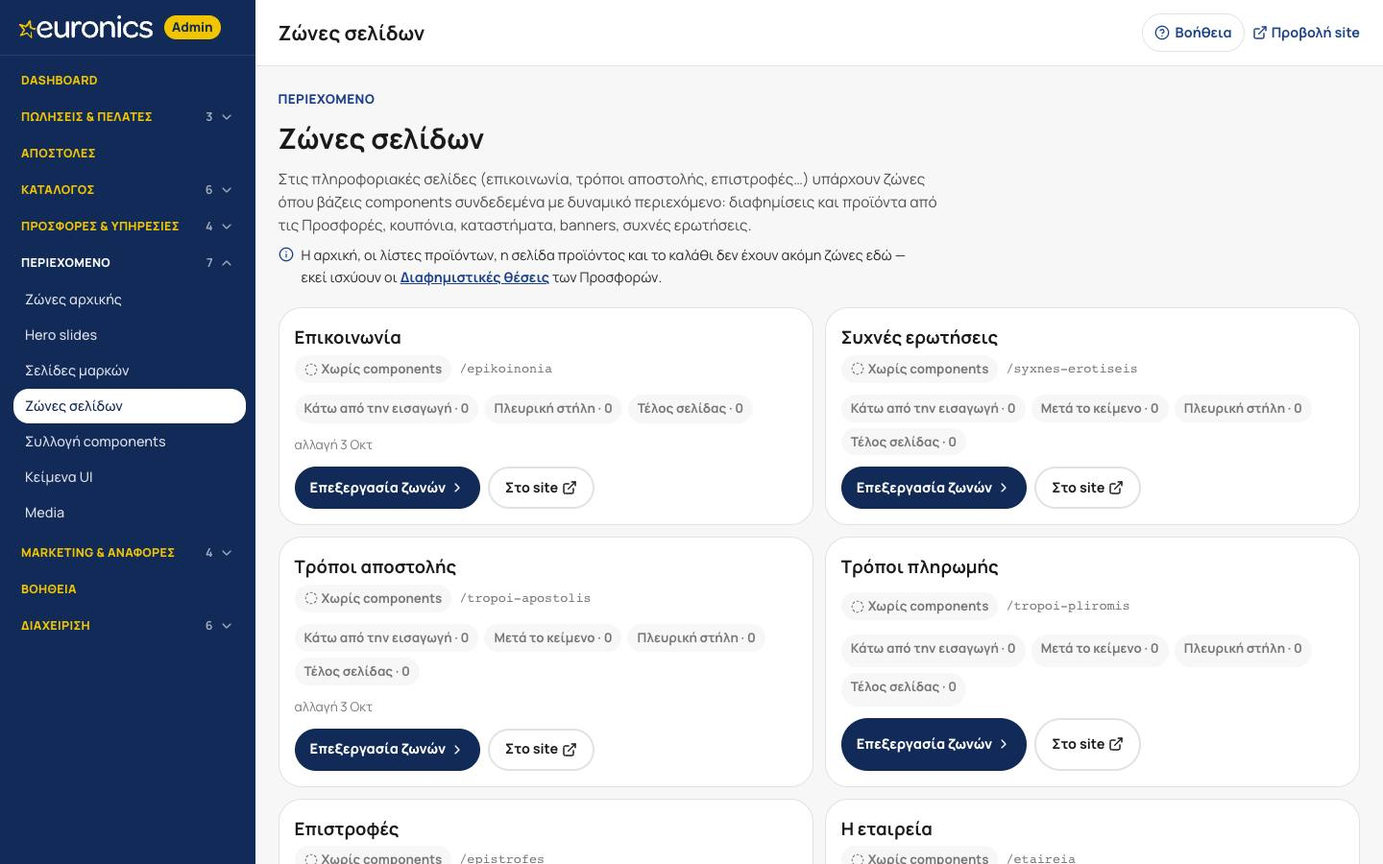
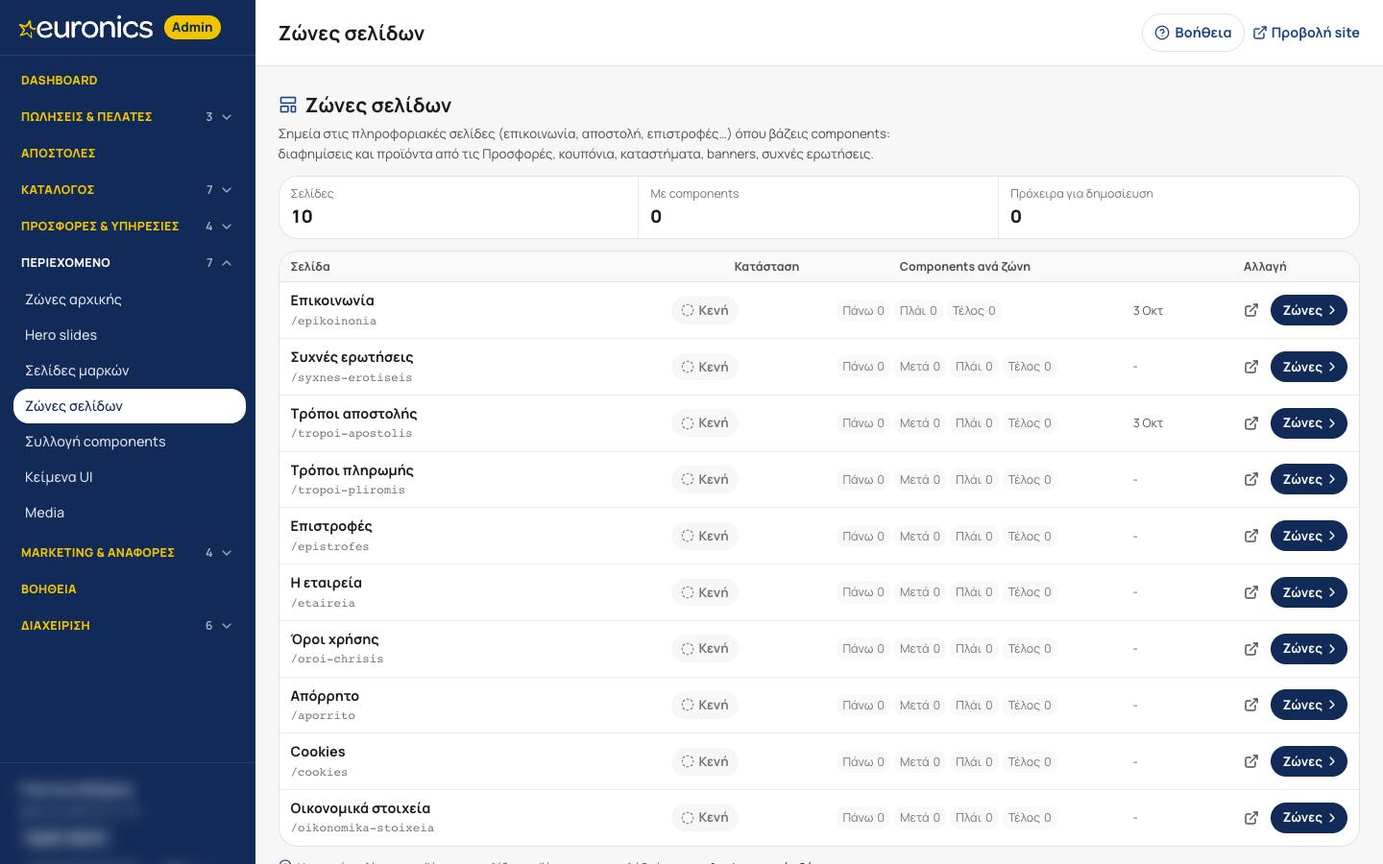
Ζώνες σελίδων (ui-ux-pro-max): η λίστα από 10 μεγάλες κάρτες γίνεται πυκνός πίνακας (σελίδα, κατάσταση, components ανά ζώνη με τόνο μόνο όπου υπάρχει περιεχόμενο, αλλαγή, Στο site / Ζώνες) με λωρίδα συνόλων· στον editor επεξεργασία και προεπισκόπηση δίπλα-δίπλα από 896 px (πριν 1280) με προεπισκόπησ

diff --git a/components/admin/cms/ZonePageEditor.tsx b/components/admin/cms/ZonePageEditor.tsx
@@ -98,48 +98,51 @@ export function ZonePageEditor({ page, initial, published: pub, savedAt: initSav
 
   return (
     <PickerBrand.Provider value={{ brandId: null, brandName: "Euronics" }}>
-      <div className="grid gap-4 min-w-0">
-        <div className="sticky top-0 z-30 -mx-4 @md:-mx-6 -mt-4 @md:-mt-6 px-4 @md:px-6 py-3 bg-eu-surface/95 backdrop-blur border-b border-eu-line grid gap-2">
-          <div className="flex flex-wrap items-center gap-x-3 gap-y-2">
-            <Link href="/admin/cms/pages" className="inline-flex items-center gap-1 text-eu-blue font-bold text-[length:var(--fs-14)] min-h-11 hover:underline"><ChevronLeft className="size-4" aria-hidden /> Ζώνες σελίδων</Link>
-            <h2 className="m-0 font-heading font-bold text-eu-ink text-[length:var(--fs-22)] min-w-0">{page.title}</h2>
+      <div className="@container grid gap-3 min-w-0">
+        {/* λεπτή σταθερή κεφαλίδα: πού είσαι, κατάσταση, έλεγχος, δημοσίευση */}
+        <div className="sticky top-0 z-30 -mx-4 @md:-mx-6 -mt-4 @md:-mt-6 px-4 @md:px-6 py-2 bg-eu-surface/95 backdrop-blur border-b border-eu-line grid gap-2">
+          <div className="flex flex-wrap items-center gap-x-3 gap-y-1.5">
+            <Link href="/admin/cms/pages" aria-label="Πίσω στις ζώνες σελίδων" className="inline-flex items-center gap-0.5 text-eu-blue font-bold text-[length:var(--fs-13)] min-h-11 md:min-h-8 hover:underline"><ChevronLeft className="size-4" aria-hidden /> Σελίδες</Link>
+            <h2 className="m-0 font-heading font-bold text-eu-ink text-[length:var(--fs-20)] min-w-0">{page.title}</h2>
             <StatusPill status={status[0]} text={status[1]} />
-            <span role="status" className={`inline-flex items-center gap-1.5 text-[length:var(--fs-13)] font-semibold ${save === "error" ? "text-eu-red" : "text-eu-muted"}`}>{save === "saving" ? <Loader2 className="size-3.5 animate-spin" aria-hidden /> : save === "idle" ? <Check className="size-3.5" aria-hidden /> : null}{saveText}</span>
-          </div>
-          <div className="flex flex-wrap items-center gap-2">
-            <button type="button" onClick={publish} disabled={busy || !changed} className="inline-flex items-center justify-center gap-2 rounded-full bg-eu-navy text-white font-extrabold text-[length:var(--fs-15)] px-4 @md:px-5 min-h-12 hover:bg-eu-blue disabled:opacity-50 flex-1 @md:flex-none min-w-0">{busy ? <Loader2 className="size-4 animate-spin" aria-hidden /> : <Rocket className="size-4" aria-hidden />}{changed ? (published ? "Δημοσίευση αλλαγών" : "Δημοσίευση") : "Χωρίς αλλαγές για δημοσίευση"}</button>
-            <button type="button" onClick={() => setShowIssues((x) => !x)} aria-expanded={showIssues} title="Έλεγχος πριν τη δημοσίευση" className={`shrink-0 inline-flex items-center gap-1.5 rounded-full border-2 px-4 min-h-12 font-bold text-[length:var(--fs-14)] ${errors.length ? "border-eu-red text-eu-red" : warnings.length ? "border-eu-amber text-eu-amber" : "border-eu-green text-eu-green"}`}>{errors.length ? <CircleAlert className="size-4" aria-hidden /> : warnings.length ? <TriangleAlert className="size-4" aria-hidden /> : <Check className="size-4" aria-hidden />}{errors.length ? <>{errors.length}<span className="hidden @md:inline"> για διόρθωση</span></> : warnings.length ? <>{warnings.length}<span className="hidden @md:inline"> συστάσεις</span></> : "Έτοιμη"}</button>
+            <span role="status" className={`inline-flex items-center gap-1.5 text-[length:var(--fs-12)] font-semibold ${save === "error" ? "text-eu-red" : "text-eu-muted"}`}>{save === "saving" ? <Loader2 className="size-3.5 animate-spin" aria-hidden /> : save === "idle" ? <Check className="size-3.5" aria-hidden /> : null}{saveText}</span>
+            <div className="ml-auto flex flex-wrap items-center gap-1.5">
+              <a href={`${page.path}?preview=1`} target="_blank" rel="noopener noreferrer" className="inline-flex items-center gap-1 rounded-full px-2.5 min-h-11 md:min-h-9 font-bold text-eu-ink-3 text-[length:var(--fs-13)] hover:bg-white" title="Το πρόχειρο σε νέα καρτέλα">Προεπισκόπηση <ExternalLink className="size-3.5" aria-hidden /></a>
+              {published && <a href={page.path} target="_blank" rel="noopener noreferrer" className="inline-flex items-center gap-1 rounded-full px-2.5 min-h-11 md:min-h-9 font-bold text-eu-ink-3 text-[length:var(--fs-13)] hover:bg-white">Στο site <ExternalLink className="size-3.5" aria-hidden /></a>}
+              {published && changed && <button type="button" onClick={revert} disabled={busy} className="inline-flex items-center gap-1 rounded-full border border-eu-line bg-white px-3 min-h-11 md:min-h-9 font-bold text-[length:var(--fs-13)] hover:border-eu-navy"><Undo2 className="size-4" aria-hidden /> Ακύρωση</button>}
+              <button type="button" onClick={() => setShowIssues((x) => !x)} aria-expanded={showIssues} title="Έλεγχος πριν τη δημοσίευση" className={`inline-flex items-center gap-1 rounded-full border px-3 min-h-11 md:min-h-9 font-bold text-[length:var(--fs-13)] bg-white ${errors.length ? "border-eu-red text-eu-red" : warnings.length ? "border-eu-amber text-eu-ink-2" : "border-eu-green/50 text-eu-green"}`}>{errors.length ? <CircleAlert className="size-4" aria-hidden /> : warnings.length ? <TriangleAlert className="size-4 text-eu-amber" aria-hidden /> : <Check className="size-4" aria-hidden />}{errors.length ? `${errors.length} για διόρθωση` : warnings.length ? `${warnings.length} συστάσεις` : "Έτοιμη"}</button>
+              <button data-help="zones.publish" type="button" onClick={publish} disabled={busy || !changed} className="inline-flex items-center gap-1.5 rounded-full bg-eu-navy text-white font-bold text-[length:var(--fs-13)] px-4 min-h-11 md:min-h-9 hover:bg-eu-blue disabled:opacity-45">{busy ? <Loader2 className="size-4 animate-spin" aria-hidden /> : <Rocket className="size-4" aria-hidden />}{changed ? "Δημοσίευση" : "Χωρίς αλλαγές"}</button>
+            </div>
           </div>
           {result && <div className="relative"><ResultBanner ok={result.ok}><span className="block pr-8">{result.message}</span></ResultBanner><button type="button" onClick={() => setResult(null)} aria-label="Κλείσιμο" className="absolute top-1 right-1 size-10 grid place-items-center rounded-full text-eu-muted hover:bg-white/60"><X className="size-4" aria-hidden /></button></div>}
           {showIssues && (errors.length > 0 || warnings.length > 0) && (
             <ul className="m-0 p-0 list-none grid gap-1 max-h-[40vh] overflow-y-auto rounded-xl bg-white border border-eu-line p-2">
               {[...errors.map((e) => ({ ...e, err: true })), ...warnings.map((w) => ({ ...w, err: false }))].map((x, k) => (
-                <li key={k}><button type="button" onClick={() => go(x.anchor)} className="w-full text-left flex items-start gap-2 rounded-lg px-2 py-1.5 min-h-11 hover:bg-eu-surface">{x.err ? <CircleAlert className="size-4 mt-0.5 shrink-0 text-eu-red" aria-hidden /> : <TriangleAlert className="size-4 mt-0.5 shrink-0 text-eu-amber" aria-hidden />}<span className="text-[length:var(--fs-14)]"><b>{x.where}:</b> {x.msg}</span></button></li>
+                <li key={k}><button type="button" onClick={() => go(x.anchor)} className="w-full text-left flex items-start gap-2 rounded-lg px-2 py-1.5 min-h-11 hover:bg-eu-surface">{x.err ? <CircleAlert className="size-4 mt-0.5 shrink-0 text-eu-red" aria-hidden /> : <TriangleAlert className="size-4 mt-0.5 shrink-0 text-eu-amber" aria-hidden />}<span className="text-[length:var(--fs-13)]"><b>{x.where}:</b> {x.msg}</span></button></li>
               ))}
             </ul>
           )}
-          <div className="@7xl:hidden grid grid-cols-2 gap-1 rounded-full bg-white border border-eu-line p-1" role="tablist" aria-label="Προβολή">
-            {(["edit", "preview"] as const).map((v) => <button key={v} type="button" role="tab" aria-selected={view === v} onClick={() => setView(v)} className={`rounded-full min-h-10 font-bold text-[length:var(--fs-14)] ${view === v ? "bg-eu-navy text-white" : "text-eu-ink-2"}`}>{v === "edit" ? "Επεξεργασία" : "Προεπισκόπηση"}</button>)}
+          <div className="@4xl:hidden grid grid-cols-2 gap-1 rounded-full bg-white border border-eu-line p-0.5" role="tablist" aria-label="Προβολή">
+            {(["edit", "preview"] as const).map((v) => <button key={v} type="button" role="tab" aria-selected={view === v} onClick={() => setView(v)} className={`rounded-full min-h-11 font-bold text-[length:var(--fs-13)] ${view === v ? "bg-eu-navy text-white" : "text-eu-ink-2"}`}>{v === "edit" ? "Επεξεργασία" : "Προεπισκόπηση"}</button>)}
           </div>
         </div>
 
-        <div className="flex flex-wrap items-center gap-2">
-          <a href={`${page.path}?preview=1`} target="_blank" rel="noopener noreferrer" className="inline-flex items-center gap-1.5 rounded-full border-2 border-eu-line px-4 min-h-11 font-bold text-[length:var(--fs-14)] hover:border-eu-navy">Προεπισκόπηση <ExternalLink className="size-4" aria-hidden /></a>
-          {published && <a href={page.path} target="_blank" rel="noopener noreferrer" className="inline-flex items-center gap-1.5 rounded-full border-2 border-eu-line px-4 min-h-11 font-bold text-[length:var(--fs-14)] hover:border-eu-navy">Στο site <ExternalLink className="size-4" aria-hidden /></a>}
-          {published && changed && <button type="button" onClick={revert} disabled={busy} className="inline-flex items-center gap-1.5 rounded-full border-2 border-eu-line px-4 min-h-11 font-bold text-[length:var(--fs-14)] hover:border-eu-navy"><Undo2 className="size-4" aria-hidden /> Ακύρωση αλλαγών</button>}
-        </div>
-
-        <div className="grid grid-cols-1 @7xl:grid-cols-[minmax(0,1fr)_minmax(0,1fr)] gap-5 items-start">
-          <div className={view === "edit" ? "min-w-0 grid gap-4" : "hidden @7xl:grid min-w-0 gap-4"}>
-            <section className="rounded-2xl bg-white border border-eu-line p-4 @md:p-5 grid @3xl:grid-cols-[minmax(0,1fr)_minmax(0,18rem)] gap-4 items-start">
-              <div className="grid gap-2">
-                <h3 className="m-0 font-heading font-bold text-eu-ink text-[length:var(--fs-20)]">Τι κάνω εδώ;</h3>
-                <p className="m-0 text-eu-ink-3 text-[length:var(--fs-15)] leading-relaxed">Η σελίδα «{page.title}» έχει {page.zones.length} <b>ζώνες</b> — σημεία όπου μπορείς να βάλεις components: διαφημίσεις από τις Προσφορές, προϊόντα προσφοράς, κουπόνι, banner, καταστήματα, συχνές ερωτήσεις κ.ά. Το κείμενο της σελίδας δεν αλλάζει.</p>
-                <p className="m-0 inline-flex items-start gap-2 text-eu-ink-2 text-[length:var(--fs-14)]"><Info className="size-4 mt-0.5 shrink-0 text-eu-blue" aria-hidden /><span>Όσα συνδέονται με προσφορές <b>κρύβονται μόνα τους</b> όταν η προσφορά λήξει. Κάθε αλλαγή μένει πρόχειρο μέχρι να πατήσεις «Δημοσίευση».</span></p>
+        {/* επεξεργασία αριστερά, προεπισκόπηση δεξιά — πάντα μαζί από 896 px (ui-ux-pro-max: άμεση οπτική ανάδραση) */}
+        <div className="grid grid-cols-1 @4xl:grid-cols-[minmax(20rem,26rem)_minmax(0,1fr)] gap-3 items-start">
+          <div className={view === "edit" ? "min-w-0 grid gap-3" : "hidden @4xl:grid min-w-0 gap-3"}>
+            <nav data-help="zones.nav" aria-label="Ζώνες της σελίδας" className="rounded-xl bg-white border border-eu-line p-2.5 grid gap-2">
+              <div className="flex flex-wrap gap-1">
+                {page.zones.map((z) => <button key={z} type="button" onClick={() => document.getElementById(`zone-${z}`)?.scrollIntoView({ behavior: "smooth", block: "start" })} className={`inline-flex items-center gap-1 rounded-full px-2.5 min-h-11 md:min-h-8 font-bold text-[length:var(--fs-12)] ${counts[z] ? "bg-eu-chip text-eu-navy" : "bg-eu-surface text-eu-ink-3"} hover:ring-2 hover:ring-eu-blue/30`}>{INFO_ZONES[z].label}<span className="tabular-nums opacity-70">{counts[z]}</span></button>)}
               </div>
-              <ZoneMap page={page} counts={counts} onPick={(z) => { setAdding(z); setTimeout(() => document.getElementById(`zone-${z}`)?.scrollIntoView({ behavior: "smooth", block: "start" }), 50); }} />
-            </section>
-            <section className="rounded-2xl bg-white border border-eu-line p-4 @md:p-5 grid gap-4 min-w-0" aria-label="Ζώνες">
+              <details className="group">
+                <summary className="list-none cursor-pointer inline-flex items-center gap-1.5 min-h-11 md:min-h-7 text-eu-blue font-semibold text-[length:var(--fs-12)] [&::-webkit-details-marker]:hidden"><Info className="size-3.5" aria-hidden /> Τι είναι οι ζώνες; Πού φαίνεται κάθε μία</summary>
+                <div className="grid gap-2 pt-1">
+                  <p className="m-0 text-eu-ink-3 text-[length:var(--fs-12)] leading-relaxed">Σημεία της σελίδας «{page.title}» όπου βάζεις components: διαφημίσεις και προϊόντα από τις Προσφορές, κουπόνι, banner, καταστήματα, συχνές ερωτήσεις. Το κείμενο της σελίδας δεν αλλάζει. Όσα συνδέονται με προσφορά κρύβονται μόνα τους όταν λήξει. Όλα μένουν πρόχειρο μέχρι τη «Δημοσίευση».</p>
+                  <ZoneMap page={page} counts={counts} onPick={(z) => { setAdding(z); setTimeout(() => document.getElementById(`zone-${z}`)?.scrollIntoView({ behavior: "smooth", block: "start" }), 50); }} />
+                </div>
+              </details>
+            </nav>
+            <section data-help="zones.blocks" className="rounded-xl bg-white border border-eu-line p-3 grid gap-3 min-w-0" aria-label="Ζώνες">
               <ZoneBlocks
                 blocks={blocks}
                 setBlocks={(fn) => setBlocksState((x) => fn(x))}
@@ -156,7 +159,7 @@ export function ZonePageEditor({ page, initial, published: pub, savedAt: initSav
               />
             </section>
           </div>
-          <div className={view === "preview" ? "min-w-0" : "hidden @7xl:block min-w-0"}><Preview src={`${page.path}?preview=1`} v={pv} device={device} setDevice={setDevice} saving={save !== "idle"} /></div>
+          <div data-help="zones.preview" className={view === "preview" ? "min-w-0" : "hidden @4xl:block min-w-0 @4xl:sticky @4xl:top-16"}><Preview src={`${page.path}?preview=1`} v={pv} device={device} setDevice={setDevice} saving={save !== "idle"} /></div>
         </div>
       </div>
     </PickerBrand.Provider>

diff --git a/app/admin/(shell)/cms/pages/page.tsx b/app/admin/(shell)/cms/pages/page.tsx
@@ -1,7 +1,7 @@
 import Link from "next/link";
-import { ChevronRight, ExternalLink, Info } from "lucide-react";
+import { ChevronRight, ExternalLink, Info, LayoutTemplate } from "lucide-react";
 import { requirePermission } from "@/lib/rbac/guard";
-import { INFO_PAGES, INFO_ZONES } from "@/lib/cms/info-pages";
+import { INFO_PAGES, INFO_ZONES, type InfoZone } from "@/lib/cms/info-pages";
 import { listZonesDocs } from "@/lib/cms/page-zones";
 import { StatusPill } from "@/components/admin/settings/ui";
 
@@ -9,43 +9,68 @@ export const metadata = { title: "Ζώνες σελίδων" };
 export const dynamic = "force-dynamic";
 
 const stable = (v: unknown): string => (Array.isArray(v) ? `[${v.map(stable).join(",")}]` : v && typeof v === "object" ? `{${Object.keys(v as object).sort().map((k) => `${JSON.stringify(k)}:${stable((v as Record<string, unknown>)[k])}`).join(",")}}` : JSON.stringify(v));
+const ZONES: InfoZone[] = ["top", "after", "aside", "bottom"];
+const SHORT: Record<InfoZone, string> = { top: "Πάνω", after: "Μετά", aside: "Πλάι", bottom: "Τέλος" };
 
+/**
+ * Οι πληροφοριακές σελίδες με ζώνες (ui-ux-pro-max: πυκνός πίνακας αντί για κάρτες): κατάσταση, components ανά ζώνη
+ * (μόνο όσα έχουν περιεχόμενο τονίζονται), τελευταία αλλαγή / δημοσίευση και άνοιγμα του editor.
+ */
 export default async function ZonePagesList() {
   await requirePermission("cms.pages.write");
   const docs = new Map((await listZonesDocs()).map((d) => [d.key, d]));
   const date = (d: Date | null | undefined) => d?.toLocaleDateString("el-GR", { day: "numeric", month: "short" }) ?? null;
+  const rows = INFO_PAGES.map((p) => {
+    const d = docs.get(p.key);
+    const live = d?.published ?? [];
+    const draft = d?.draft ?? [];
+    const changed = !!d && (d.published ? stable(d.published) !== stable(d.draft) : draft.length > 0);
+    const status = !d?.published ? (draft.length ? (["off", "Πρόχειρο"] as const) : (["off", "Κενή"] as const)) : changed ? (["incomplete", "Αλλαγές στο πρόχειρο"] as const) : (["live", "Δημοσιευμένη"] as const);
+    const per = Object.fromEntries(ZONES.map((z) => [z, (changed ? draft : live).filter((b) => (b.zone ?? "top") === z).length])) as Record<InfoZone, number>;
+    return { p, d, status, changed, per, total: (changed ? draft : live).length };
+  });
+  const withContent = rows.filter((r) => r.total > 0).length, pending = rows.filter((r) => r.changed).length;
+
   return (
-    <div className="grid gap-5 min-w-0">
-      <header className="grid gap-2">
-        <div className="font-extrabold text-eu-blue text-[length:var(--fs-13)] tracking-wide uppercase">Περιεχόμενο</div>
-        <h2 className="m-0 font-heading font-bold text-eu-ink text-[length:var(--fs-28)]">Ζώνες σελίδων</h2>
-        <p className="m-0 text-eu-ink-3 text-[length:var(--fs-15)] max-w-[75ch]">Στις πληροφοριακές σελίδες (επικοινωνία, τρόποι αποστολής, επιστροφές…) υπάρχουν ζώνες όπου βάζεις components συνδεδεμένα με δυναμικό περιεχόμενο: διαφημίσεις και προϊόντα από τις Προσφορές, κουπόνια, καταστήματα, banners, συχνές ερωτήσεις.</p>
-        <p className="m-0 inline-flex items-start gap-2 text-eu-ink-2 text-[length:var(--fs-14)] max-w-[75ch]"><Info className="size-4 mt-0.5 shrink-0 text-eu-blue" aria-hidden /><span>Η αρχική, οι λίστες προϊόντων, η σελίδα προϊόντος και το καλάθι δεν έχουν ακόμη ζώνες εδώ — εκεί ισχύουν οι <Link href="/admin/prosfores/theseis" className="text-eu-blue font-bold underline">Διαφημιστικές θέσεις</Link> των Προσφορών.</span></p>
+    <div className="@container grid gap-3 min-w-0">
+      <header className="grid gap-1">
+        <h2 className="m-0 font-heading font-bold text-eu-ink text-[length:var(--fs-20)] inline-flex items-center gap-2"><LayoutTemplate className="size-5 text-eu-blue" aria-hidden /> Ζώνες σελίδων</h2>
+        <p className="m-0 text-eu-ink-3 text-[length:var(--fs-13)] max-w-[80ch]">Σημεία στις πληροφοριακές σελίδες (επικοινωνία, αποστολή, επιστροφές…) όπου βάζεις components: διαφημίσεις και προϊόντα από τις Προσφορές, κουπόνια, καταστήματα, banners, συχνές ερωτήσεις.</p>
       </header>
-      <ul className="m-0 p-0 list-none grid grid-cols-1 @2xl:grid-cols-2 @6xl:grid-cols-3 gap-3">
-        {INFO_PAGES.map((p) => {
-          const d = docs.get(p.key);
-          const live = d?.published ?? [];
-          const changed = !!d && (d.published ? stable(d.published) !== stable(d.draft) : d.draft.length > 0);
-          const [s, t] = !d?.published ? (d?.draft.length ? (["off", "Πρόχειρο — δεν φαίνεται"] as const) : (["off", "Χωρίς components"] as const)) : changed ? (["incomplete", "Δημοσιευμένη · αλλαγές στο πρόχειρο"] as const) : (["live", "Δημοσιευμένη"] as const);
-          return (
-            <li key={p.key} className="rounded-2xl bg-white border border-eu-line p-4 grid gap-3 min-w-0">
-              <div className="grid gap-1">
-                <div className="font-heading font-bold text-eu-ink text-[length:var(--fs-18)]">{p.title}</div>
-                <div className="flex flex-wrap items-center gap-2"><StatusPill status={s} text={t} /><span className="font-mono text-eu-muted text-[length:var(--fs-13)]">{p.path}</span></div>
-              </div>
-              <ul className="m-0 p-0 list-none flex flex-wrap gap-1.5">
-                {p.zones.map((z) => { const n = live.filter((b) => (b.zone ?? "top") === z).length; return <li key={z} className={`rounded-full px-2.5 py-1 text-[length:var(--fs-13)] font-bold ${n ? "bg-eu-chip text-eu-navy" : "bg-eu-surface text-eu-muted"}`}>{INFO_ZONES[z].label} · {n}</li>; })}
-              </ul>
-              {d?.updatedAt && <div className="text-eu-muted text-[length:var(--fs-13)]">αλλαγή {date(d.updatedAt)}{d.publishedAt ? ` · δημοσίευση ${date(d.publishedAt)}` : ""}</div>}
-              <div className="flex flex-wrap gap-2">
-                <Link href={`/admin/cms/pages/${p.key}`} className="inline-flex items-center justify-center gap-1 rounded-full bg-eu-navy text-white font-extrabold text-[length:var(--fs-14)] px-4 min-h-11 hover:bg-eu-blue grow @md:grow-0">Επεξεργασία ζωνών <ChevronRight className="size-4" aria-hidden /></Link>
-                <a href={p.path} target="_blank" rel="noopener noreferrer" className="inline-flex items-center justify-center gap-1 rounded-full border-2 border-eu-line font-bold text-[length:var(--fs-14)] px-4 min-h-11 hover:border-eu-navy grow @md:grow-0">Στο site <ExternalLink className="size-4" aria-hidden /></a>
-              </div>
+
+      <dl className="m-0 grid grid-cols-3 rounded-xl border border-eu-line bg-white overflow-hidden [&>div]:px-3 [&>div]:py-2 [&>div:not(:last-child)]:border-r [&>div]:border-eu-line-2">
+        <div><dt className="text-eu-muted text-[length:var(--fs-12)]">Σελίδες</dt><dd className="m-0 font-heading font-extrabold text-eu-ink text-[length:var(--fs-18)] tabular-nums">{rows.length}</dd></div>
+        <div><dt className="text-eu-muted text-[length:var(--fs-12)]">Με components</dt><dd className="m-0 font-heading font-extrabold text-eu-ink text-[length:var(--fs-18)] tabular-nums">{withContent}</dd></div>
+        <div><dt className="text-eu-muted text-[length:var(--fs-12)]">Πρόχειρα για δημοσίευση</dt><dd className={`m-0 font-heading font-extrabold text-[length:var(--fs-18)] tabular-nums ${pending ? "text-eu-amber" : "text-eu-ink"}`}>{pending}</dd></div>
+      </dl>
+
+      <div data-help="zones.list" className="rounded-xl border border-eu-line bg-white overflow-hidden">
+        <div className="hidden @3xl:grid grid-cols-[minmax(0,1.3fr)_10rem_minmax(0,1fr)_6rem_auto] gap-x-3 px-3 py-1.5 bg-eu-surface/70 border-b border-eu-line text-eu-ink-3 font-bold text-[length:var(--fs-12)]">
+          <span>Σελίδα</span><span>Κατάσταση</span><span title="Components ανά ζώνη: πάνω (κάτω από την εισαγωγή), μετά το κείμενο, πλαϊνή στήλη, τέλος σελίδας">Components ανά ζώνη</span><span>Αλλαγή</span><span className="sr-only">Ενέργειες</span>
+        </div>
+        <ul className="m-0 p-0 list-none divide-y divide-eu-line-2">
+          {rows.map(({ p, d, status, per, total }) => (
+            <li key={p.key} className="grid grid-cols-[minmax(0,1fr)_auto] @3xl:grid-cols-[minmax(0,1.3fr)_10rem_minmax(0,1fr)_6rem_auto] items-center gap-x-3 gap-y-1.5 px-3 py-2">
+              <span className="grid min-w-0">
+                <Link href={`/admin/cms/pages/${p.key}`} className="font-bold text-eu-ink text-[length:var(--fs-14)] hover:text-eu-blue hover:underline truncate">{p.title}</Link>
+                <span className="font-mono text-eu-muted text-[length:var(--fs-12)] truncate">{p.path}</span>
+              </span>
+              <span className="row-start-2 @3xl:row-start-auto"><StatusPill status={status[0]} text={status[1]} /></span>
+              <span className="row-start-3 col-span-2 @3xl:row-start-auto @3xl:col-span-1 flex flex-wrap gap-1" aria-label={total ? `${total} components` : "Χωρίς components"}>
+                {ZONES.filter((z) => p.zones.includes(z)).map((z) => (
+                  <span key={z} title={INFO_ZONES[z].label} className={`inline-flex items-center gap-1 rounded-md px-1.5 py-0.5 text-[length:var(--fs-12)] ${per[z] ? "bg-eu-chip text-eu-navy font-bold" : "bg-eu-surface/70 text-eu-muted"}`}>{SHORT[z]}<span className="tabular-nums">{per[z]}</span></span>
+                ))}
+              </span>
+              <span className="hidden @3xl:block text-eu-ink-3 text-[length:var(--fs-12)] tabular-nums" title={d?.publishedAt ? `δημοσίευση ${date(d.publishedAt)}` : undefined}>{date(d?.updatedAt) ?? "-"}</span>
+              <span className="row-start-1 col-start-2 @3xl:row-start-auto @3xl:col-start-auto flex items-center gap-1 justify-end">
+                <a href={p.path} target="_blank" rel="noopener noreferrer" aria-label={`${p.title} στο site`} title="Στο site" className="size-11 md:size-8 grid place-items-center rounded-full text-eu-ink-3 hover:bg-eu-surface hover:text-eu-navy"><ExternalLink className="size-4" aria-hidden /></a>
+                <Link href={`/admin/cms/pages/${p.key}`} className="inline-flex items-center gap-0.5 rounded-full bg-eu-navy text-white font-bold text-[length:var(--fs-13)] pl-3 pr-2 min-h-11 md:min-h-8 hover:bg-eu-blue">Ζώνες <ChevronRight className="size-4" aria-hidden /></Link>
+              </span>
             </li>
-          );
-        })}
-      </ul>
+          ))}
+        </ul>
+      </div>
+      <p className="m-0 inline-flex items-start gap-1.5 text-eu-ink-3 text-[length:var(--fs-12)] max-w-[80ch]"><Info className="size-3.5 mt-px shrink-0 text-eu-blue" aria-hidden /><span>Η αρχική, οι λίστες προϊόντων, η σελίδα προϊόντος και το καλάθι έχουν τις <Link href="/admin/prosfores/theseis" className="text-eu-blue font-bold underline">Διαφημιστικές θέσεις</Link> των Προσφορών και τις <Link href="/admin/cms/home" className="text-eu-blue font-bold underline">Ζώνες αρχικής</Link>.</span></p>
     </div>
   );
 }

diff --git a/lib/help/content/index.ts b/lib/help/content/index.ts
@@ -232,6 +232,30 @@ export const HELP_PAGES: HelpPage[] = [
     keywords: ["προϊόντα", "φωτογραφίες", "ποιότητα", "στήλες", "πηγή"],
   },
   {
+    route: "/admin/cms/pages",
+    title: "Ζώνες σελίδων",
+    summary: "Οι πληροφοριακές σελίδες (επικοινωνία, αποστολή, επιστροφές, όροι…) με ζώνες όπου βάζεις components: διαφημίσεις και προϊόντα από τις Προσφορές, κουπόνια, καταστήματα, banners, συχνές ερωτήσεις. Ένας πίνακας με την κατάσταση κάθε σελίδας.",
+    parts: [{ key: "zones.list", title: "Σελίδες", text: "Ανά σελίδα: κατάσταση (Κενή, Πρόχειρο, Δημοσιευμένη, Αλλαγές στο πρόχειρο), components ανά ζώνη (Πάνω, Μετά το κείμενο, Πλάι, Τέλος· τονίζονται όσες έχουν περιεχόμενο), τελευταία αλλαγή, «Στο site» και «Ζώνες» για επεξεργασία. Πάνω: πόσες σελίδες έχουν components και πόσες έχουν πρόχειρο για δημοσίευση." }],
+    tasks: [{ title: "Βάζω προσφορά σε μια σελίδα", steps: ["Πάτα «Ζώνες» στη σελίδα (π.χ. Τρόποι αποστολής).", "Στη ζώνη που θέλεις πάτα «Προσθήκη εδώ» και διάλεξε component (π.χ. προϊόντα προσφοράς).", "Δες το αμέσως στην προεπισκόπηση δίπλα· «Δημοσίευση» όταν είναι έτοιμο."] }],
+    related: [{ label: "Διαφημιστικές θέσεις", href: "/admin/prosfores/theseis" }, { label: "Ζώνες αρχικής", href: "/admin/cms/home" }],
+    files: ["app/admin/(shell)/cms/pages/page.tsx", "lib/cms/info-pages.ts", "lib/cms/page-zones.ts"],
+    keywords: ["ζώνες", "σελίδες", "components", "πληροφοριακές", "επικοινωνία"],
+  },
+  {
+    route: "/admin/cms/pages/[key]",
+    title: "Ζώνες μιας σελίδας",
+    summary: "Τα components στις ζώνες μιας πληροφοριακής σελίδας, με ζωντανή προεπισκόπηση του πρόχειρου δίπλα (σε οθόνη laptop και μεγαλύτερη). Οι αλλαγές αποθηκεύονται μόνες τους και φαίνονται στους επισκέπτες μετά τη «Δημοσίευση».",
+    parts: [
+      { key: "zones.nav", title: "Ζώνες", text: "Οι ζώνες της σελίδας με το πλήθος των components τους· πάτα μία για να πας εκεί. «Τι είναι οι ζώνες;» ανοίγει εξήγηση και σχεδιάγραμμα με το πού φαίνεται κάθε ζώνη στη σελίδα." },
+      { key: "zones.blocks", title: "Components", text: "Ανά ζώνη τα components της, με «Προσθήκη εδώ». Όσα συνδέονται με προσφορά κρύβονται μόνα τους όταν λήξει." },
+      { key: "zones.preview", title: "Προεπισκόπηση", text: "Το πρόχειρο όπως θα το δει ο επισκέπτης, σε υπολογιστή ή κινητό· ανανεώνεται μετά από κάθε αλλαγή. Σε μικρή οθόνη είναι στην καρτέλα «Προεπισκόπηση»." },
+      { key: "zones.publish", title: "Έλεγχος & δημοσίευση", text: "«Έτοιμη» / «N συστάσεις» / «N για διόρθωση» ανοίγει τη λίστα θεμάτων με σύνδεσμο σε καθένα. «Δημοσίευση» κλειδώνει όσο υπάρχουν θέματα για διόρθωση· «Ακύρωση» γυρίζει στη δημοσιευμένη έκδοση." },
+    ],
+    related: [{ label: "Όλες οι σελίδες", href: "/admin/cms/pages" }],
+    files: ["components/admin/cms/ZonePageEditor.tsx", "components/admin/cms/ZoneBlocks.tsx", "components/admin/cms/BrandPreview.tsx"],
+    keywords: ["ζώνες", "components", "προεπισκόπηση", "δημοσίευση"],
+  },
+  {
     route: "/admin/cms/copy",
     title: "Κείμενα UI",
     summary: "Όλα τα σταθερά κείμενα της βιτρίνας (κουμπιά, ετικέτες, μηνύματα, τίτλοι ενοτήτων), σε ομάδες ανά σημείο του site. Αλλάζουν επί τόπου, αποθηκεύονται μόνα τους στο πρόχειρο και φαίνονται στους πελάτες μετά τη «Δημοσίευση».",

diff --git a/components/admin/cms/BrandPreview.tsx b/components/admin/cms/BrandPreview.tsx
@@ -7,16 +7,18 @@ import { Loader2, Monitor, Smartphone } from "lucide-react";
 export function Preview({ src, v, device, setDevice, saving }: { src: string; v: number; device: "desktop" | "mobile"; setDevice: (d: "desktop" | "mobile") => void; saving: boolean }) {
   const box = useRef<HTMLDivElement>(null);
   const [w, setW] = useState(0);
+  const [bh, setBh] = useState(0);
   useEffect(() => {
     const el = box.current;
     if (!el) return;
-    const ro = new ResizeObserver(([e]) => setW(e.contentRect.width));
+    const ro = new ResizeObserver(([e]) => { setW(e.contentRect.width); setBh(e.contentRect.height); });
     ro.observe(el);
     return () => ro.disconnect();
   }, []);
   const target = device === "desktop" ? 1280 : 390;
   const scale = w ? Math.min(1, w / target) : 1;
-  const h = 760;
+  // το πλαίσιο γεμίζει το ύψος της οθόνης· η σελίδα μέσα έχει όσο ύψος χρειάζεται για να το γεμίσει στη σμίκρυνση
+  const h = bh && scale ? Math.max(760, Math.round(bh / scale)) : 760;
   return (
     <div className="@7xl:sticky @7xl:top-44 grid gap-2 min-w-0">
       <div className="flex flex-wrap items-center justify-between gap-2">
@@ -25,7 +27,7 @@ export function Preview({ src, v, device, setDevice, saving }: { src: string; v:
           {(["desktop", "mobile"] as const).map((d) => <button key={d} type="button" role="radio" aria-checked={device === d} onClick={() => setDevice(d)} className={`inline-flex items-center gap-1.5 rounded-full px-3 min-h-10 font-bold text-[length:var(--fs-13)] ${device === d ? "bg-eu-navy text-white" : "text-eu-ink-2"}`}>{d === "desktop" ? <Monitor className="size-4" aria-hidden /> : <Smartphone className="size-4" aria-hidden />}{d === "desktop" ? "Υπολογιστής" : "Κινητό"}</button>)}
         </div>
       </div>
-      <div ref={box} className="rounded-2xl border border-eu-line bg-eu-line-2 overflow-hidden" style={{ height: h * scale + (device === "mobile" ? 0 : 0) }}>
+      <div ref={box} className="rounded-2xl border border-eu-line bg-eu-line-2 overflow-hidden" style={{ height: "max(24rem, calc(100dvh - 11rem))" }}>
         <div style={{ width: target, height: h, transform: `scale(${scale})`, transformOrigin: "top left", margin: device === "mobile" && w > target ? "0 auto" : undefined }}>
           <iframe key={v} title="Προεπισκόπηση σελίδας" src={`${src}${src.includes("?") ? "&" : "?"}v=${v}`} className="block bg-white" style={{ width: target, height: h, border: 0 }} />
         </div>
